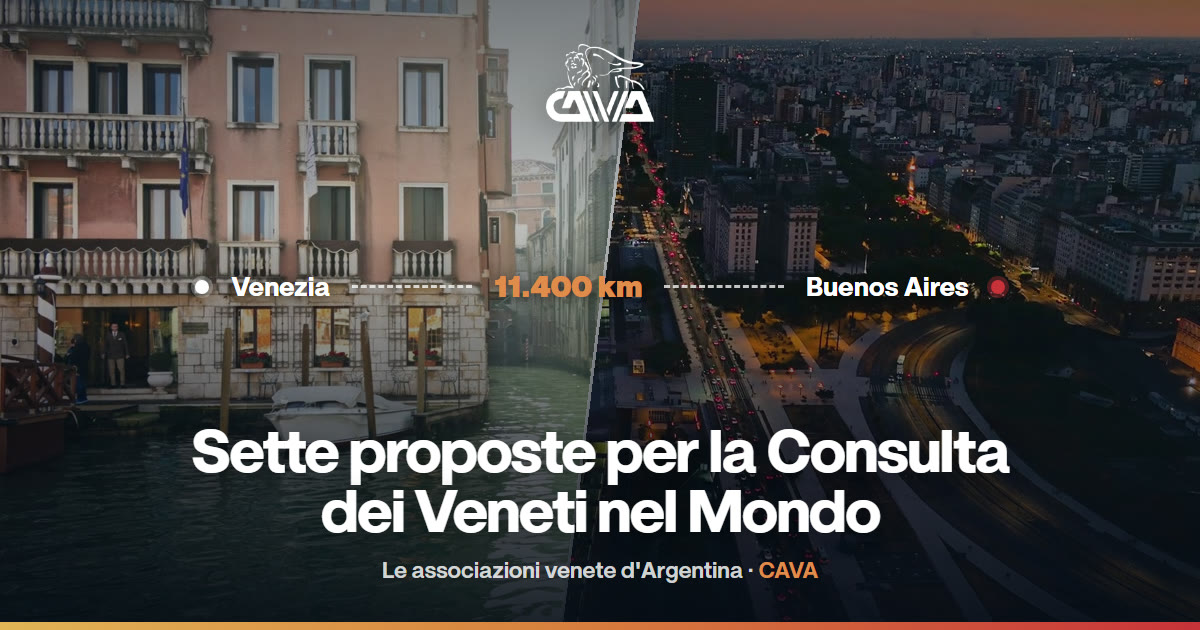
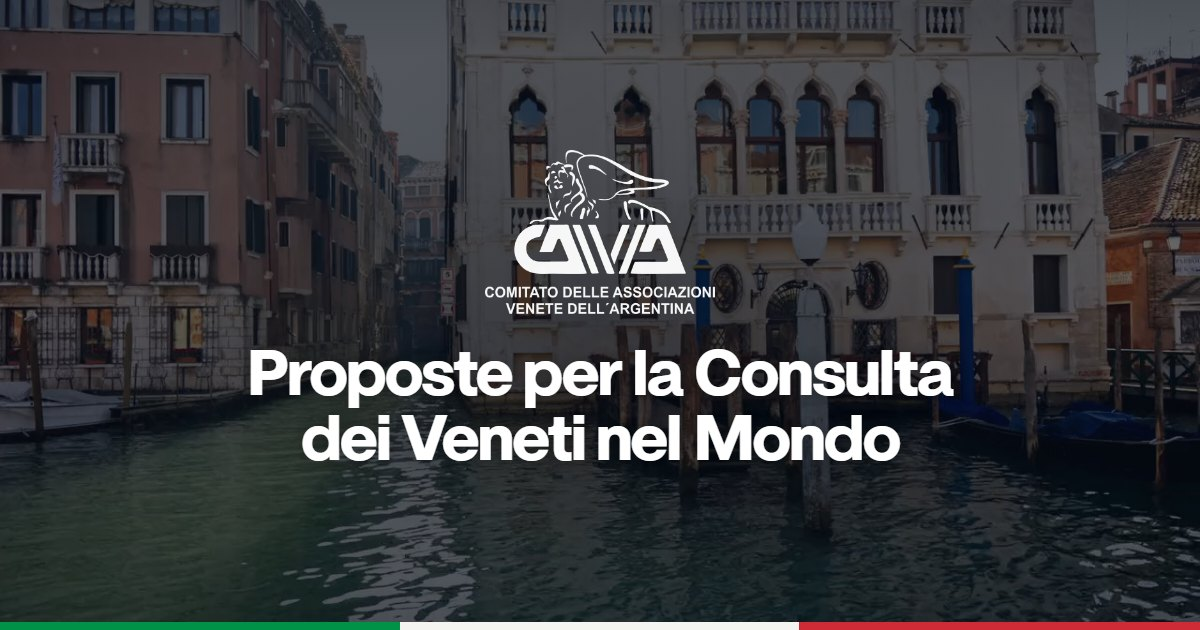
d

diff --git a/index.html b/index.html
@@ -15,15 +15,15 @@
   <meta property="og:url" content="https://consulta.comitatocava.org/">
   <meta property="og:title" content="7 proposte del CAVA per la Consulta dei Veneti nel Mondo">
   <meta property="og:description" content="11.400 km tra Veneto e Argentina, una sola comunità: proposte su istituzioni, giovani e agricoltura.">
-  <meta property="og:image" content="https://consulta.comitatocava.org/assets/img/og.jpg">
+  <meta property="og:image" content="https://consulta.comitatocava.org/assets/img/og.jpg?v=2">
   <meta property="og:image:type" content="image/jpeg">
   <meta property="og:image:width" content="1200">
   <meta property="og:image:height" content="630">
-  <meta property="og:image:alt" content="Venezia e Buenos Aires, unite da 11.400 km: le proposte del CAVA per la Consulta dei Veneti nel Mondo">
+  <meta property="og:image:alt" content="Logo del CAVA su un canale di Venezia: Proposte per la Consulta dei Veneti nel Mondo">
   <meta name="twitter:card" content="summary_large_image">
   <meta name="twitter:title" content="7 proposte del CAVA per la Consulta dei Veneti nel Mondo">
   <meta name="twitter:description" content="11.400 km tra Veneto e Argentina, una sola comunità: proposte su istituzioni, giovani e agricoltura.">
-  <meta name="twitter:image" content="https://consulta.comitatocava.org/assets/img/og.jpg">
+  <meta name="twitter:image" content="https://consulta.comitatocava.org/assets/img/og.jpg?v=2">
 
   <!-- Íconos -->
   <link rel="icon" href="favicon.ico" sizes="48x48">
